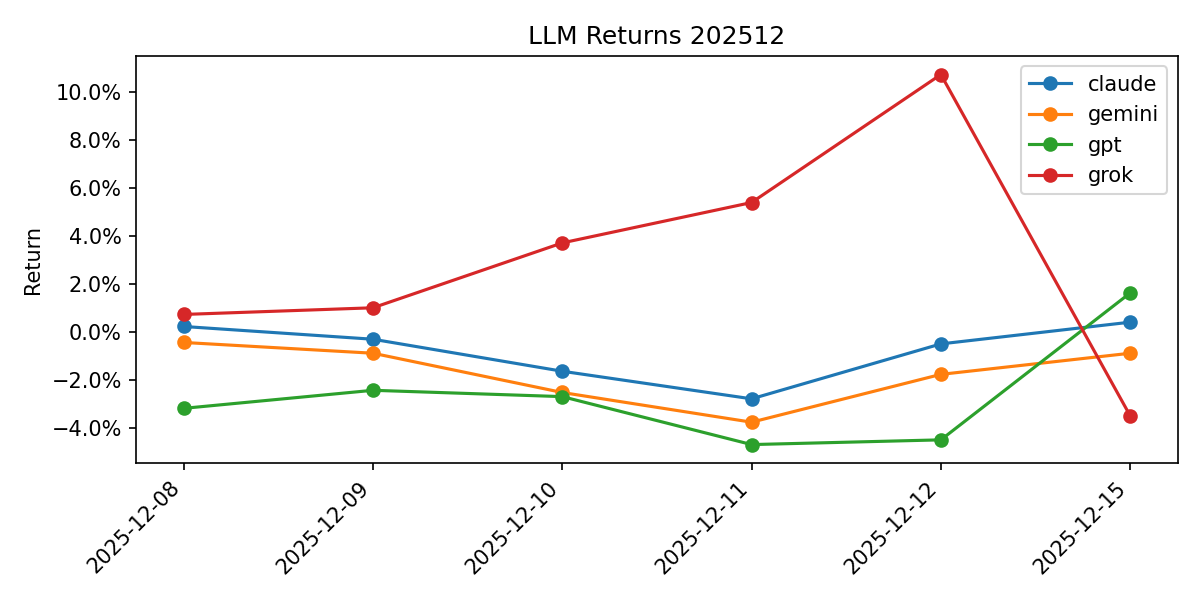
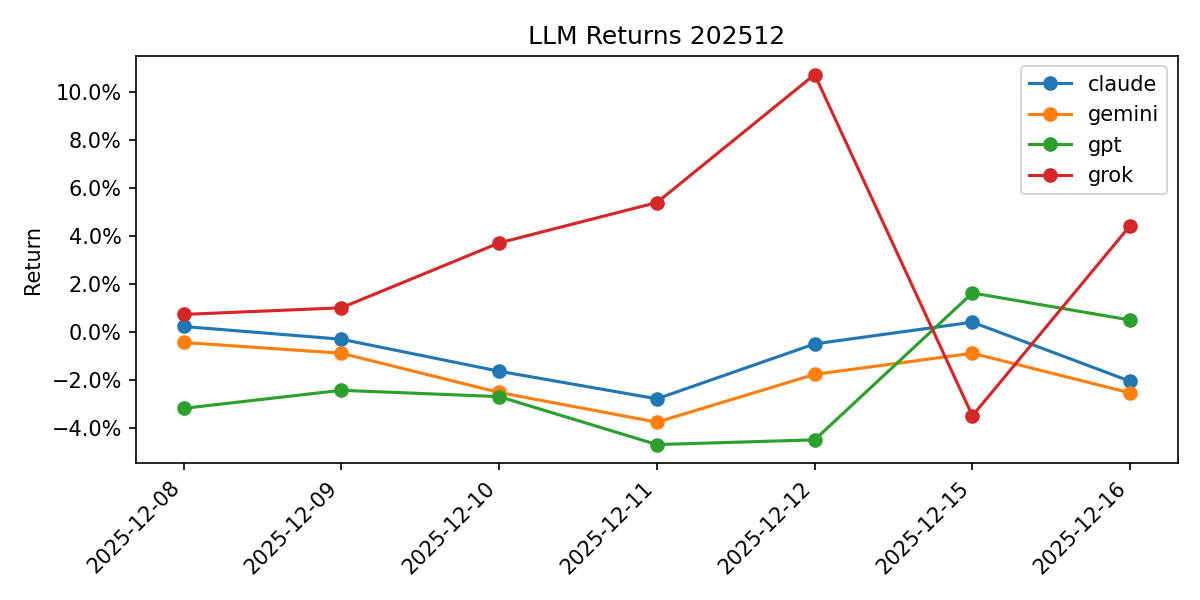
chore: add daily results 2025-12-16

diff --git a/data/result/result-2025-12-16.md b/data/result/result-2025-12-16.md
@@ -1,0 +1,25 @@
+# Daily Result 2025-12-16
+
+## Models
+
+| LLM | Model |
+| --- | --- |
+| claude | claude-sonnet-4-5-20250929 |
+| gemini | gemini-3-pro-preview |
+| gpt | gpt-5.1 |
+| grok | grok-4-1-fast-reasoning |
+
+| LLM | Symbol | Buy(Open) | Close(today) | Return |
+| --- | --- | --- | --- | --- |
+| claude | 8306.T (MITSUBISHI UFJ FINANCIAL GROUP) | 2513.00 | 2477.00 | -1.43% |
+|  | 9984.T (SOFTBANK GROUP CORP) | 17000.00 | 16540.00 | -2.71% |
+|  | Avg |  |  | -2.07% |
+| gemini | 5713.T (SUMITOMO METAL MINING CO) | 5752.00 | 5614.00 | -2.40% |
+|  | 9984.T (SOFTBANK GROUP CORP) | 17000.00 | 16540.00 | -2.71% |
+|  | Avg |  |  | -2.55% |
+| gpt | 7203.T (TOYOTA MOTOR CORP) | 3243.00 | 3330.00 | 2.68% |
+|  | 6758.T (SONY GROUP CORPORATION) | 4142.00 | 4071.00 | -1.71% |
+|  | Avg |  |  | 0.48% |
+| grok | 4570.T (IMMUNO-BIOLOGICAL LABORATORIES) | 1446.00 | 1613.00 | 11.55% |
+|  | 9984.T (SOFTBANK GROUP CORP) | 17000.00 | 16540.00 | -2.71% |
+|  | Avg |  |  | 4.42% |

diff --git a/reports/202512/summary.md b/reports/202512/summary.md
@@ -17,6 +17,7 @@
 | 2025-12-11 | -2.80% | -3.78% | -4.71% | 5.38% |
 | 2025-12-12 * | -0.51% | -1.78% | -4.51% | 10.72% |
 | 2025-12-15 | 0.40% | -0.90% | 1.61% | -3.51% |
+| 2025-12-16 | -2.07% | -2.55% | 0.48% | 4.42% |
 
 ![LLM monthly returns](summary.png)
 
